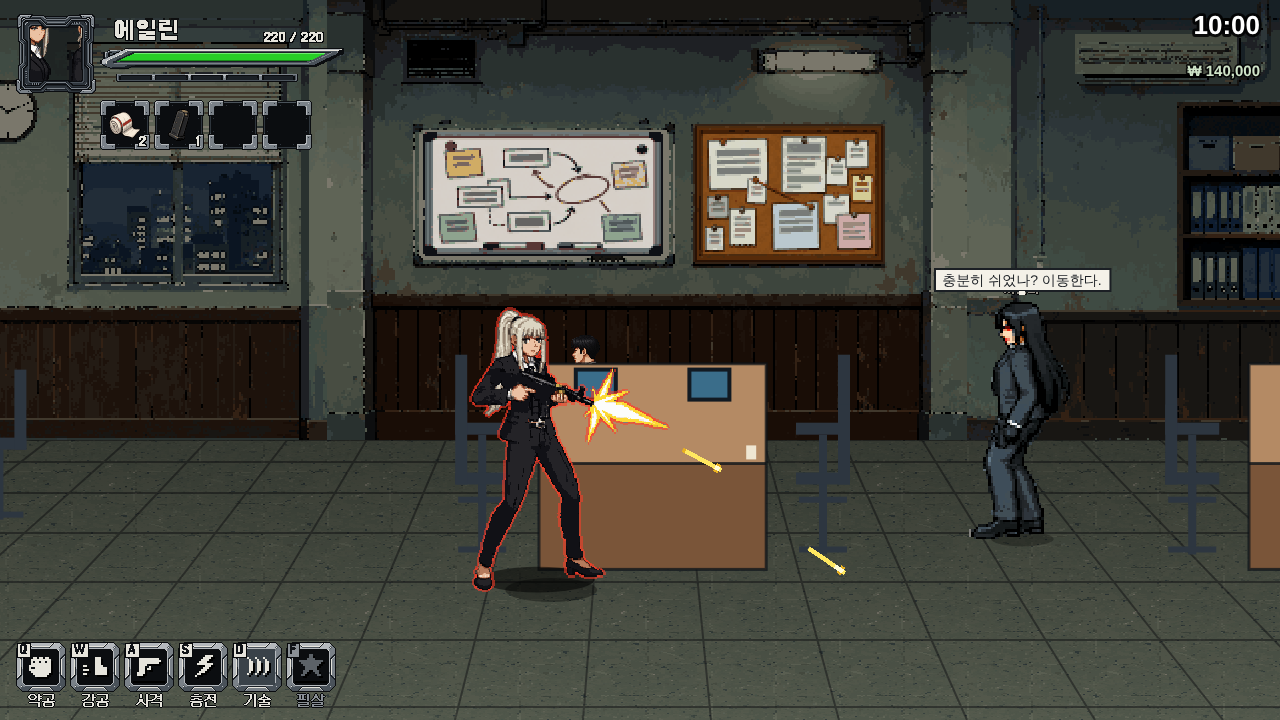
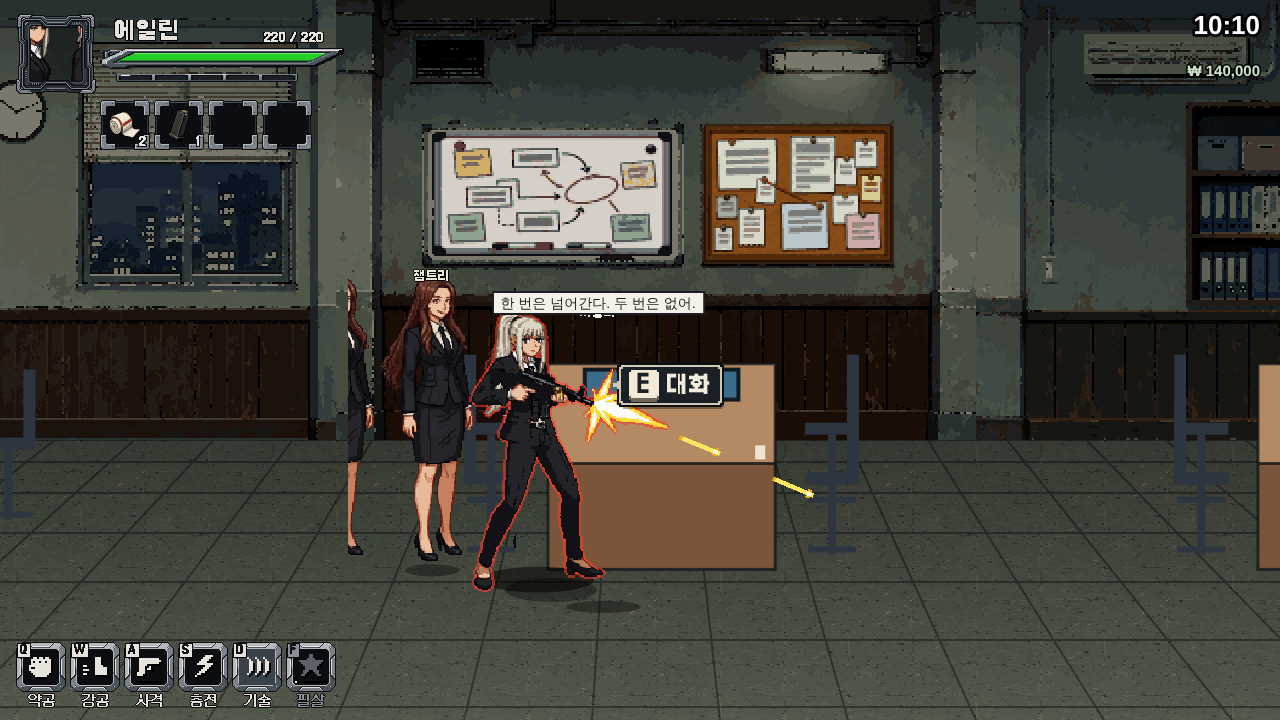
본 게임: 인물 팩 그림을 옛 방문 요원·Test man 그림보다 먼저(사용자 10-29: 옛 에일린·쟈알디 그림이 보임). 몹도 인물 팩(look) → 실루엣
Claude-Session: https://claude.ai/code/session_01Jodrzg78Kc7j1f2mJbzfKz

diff --git a/src/game/action/engine/hub.ts b/src/game/action/engine/hub.ts
@@ -11,8 +11,8 @@ import { SCREEN_H, SCREEN_W } from './contract';
 import { HQ_PLACE, drawFloor, drawHqWall, drawPropArt, drawHqTextureWall } from '../art/bg';
 import { drawHqDoorRound2 } from '../art/hqDoorRound2';
 import { drawCallLit, drawHqField, drawHqFieldLight, drawHqFieldObject, drawHqSigns, hasHqField } from '../art/hqField';
-import { drawVisitAgent, visitAgentTop, hasVisitAgent } from '../art/visitAgents';
-import { charTop, drawCharClip, charArt } from '../art/charPacks';
+import { drawVisitAgent, visitAgentTop } from '../art/visitAgents';
+import { charTop, drawCharClip, charArt, hasCharPacks } from '../art/charPacks';
 import { drawTestMan, hasTestPeople, testManTop, testPlayerTop } from '../art/testPeople';
 import { persp, view as fieldView } from './view';
 import { blockByProps, clearSpot, type BlockProp } from './propBlock';
@@ -145,7 +145,8 @@ export function makeHub(host: HubHost, whereIs: (place: string) => { scene: stri
     arriveDoor = null;
     near = null;
     // 필드 시험: 사무실에 서 있는 남자 (임시)
-    const man = sc.id === 'office' && hasTestPeople() ? { x: 900, y: 560 } : null;
+    // 옛 시험 그림(Test man)은 인물 팩이 없을 때만 (사용자 10-29: 옛 에일린·쟈알디 그림이 왜 보이냐)
+    const man = sc.id === 'office' && hasTestPeople() && !hasCharPacks() ? { x: 900, y: 560 } : null;
     solids = [...(man ? [{ x: man.x, y: man.y, w: 70, back: 20, front: 20 }] : []), ...sc.boxes.filter((b) => b.solid).map((b) => ({ x: b.x, y: b.y, w: b.w, back: b.d + 6, front: 8, h: sc.painted ? b.h : undefined })), ...people.map((p) => ({ x: p.x, y: p.y, w: 80, back: 24, front: 24 }))];
     const len = Math.max(SCREEN_W, sc.length);
     const sx = Math.max(60, Math.min(len - 60, x));
@@ -165,7 +166,7 @@ export function makeHub(host: HubHost, whereIs: (place: string) => { scene: stri
       depthLayers: sc.boxes.map((b) => ({ y: b.y, occludedSilhouette: !sc.painted, x0: b.x - b.w / 2, x1: b.x + b.w / 2, draw: (c: CanvasRenderingContext2D) => {
         if (sc.painted && hasHqField(sc.painted)) { drawHqFieldObject(c, sc.painted, b.kind); return; }
         drawBox(c, b, sc.look);
-      } })).concat(people.map((p) => ({ y: p.y, x0: p.x - 60, x1: p.x + 60, occludedSilhouette: false, draw: (c: CanvasRenderingContext2D) => { drawVisitAgent(c, p.name, p.x, p.y, p.face, performance.now()) || drawCharClip(c, p.name, p.x, p.y, p.face, performance.now()); } })))
+      } })).concat(people.map((p) => ({ y: p.y, x0: p.x - 60, x1: p.x + 60, occludedSilhouette: false, draw: (c: CanvasRenderingContext2D) => { drawCharClip(c, p.name, p.x, p.y, p.face, performance.now()) || drawVisitAgent(c, p.name, p.x, p.y, p.face, performance.now()); } })))
         // 움직이는 행위자: 자리 수만큼 층을 두고 매 프레임 지금 목록의 i번째를 읽는다 (깊이 정렬은 y 게터로)
         .concat(host.life ? Array.from({ length: LIFE_SLOTS }, (_, i) => ({
           get y() { return live[i]?.y ?? -1e9; },
@@ -232,7 +233,7 @@ export function makeHub(host: HubHost, whereIs: (place: string) => { scene: stri
           c.scale(1 / z, 1 / z);
           for (const a of live) {
             if (!a.icon && !a.say) continue;
-            const top = (a.kind === 'named' ? namedTop(a.name) : hasTestPeople() ? testManTop() : -230) * persp(a.y);
+            const top = (a.kind === 'named' ? namedTop(a.name) : a.look && charArt(a.look) ? charTop(a.look) : hasTestPeople() && !hasCharPacks() ? testManTop() : -230) * persp(a.y);
             drawHeadBubble(c, a.x * z, (a.y + top) * z - 8, a.say ?? a.icon!, !!a.say);
           }
           c.restore();
@@ -888,12 +889,12 @@ function legacyDoor(c: CanvasRenderingContext2D, d: Door, camX: number) {
 }
 
 /** 이름 인물 머리 꼭대기: 방문 요원 그림이 있으면 그것, 아니면 인물 팩(테스트룸 그림) */
-const namedTop = (name: string) => (hasVisitAgent(name) || !charArt(name) ? visitAgentTop(name) : charTop(name));
-/** 행위자 그리기: 이름 인물은 방문 요원 그림 → 인물 팩(통합 테스트룸 생활 클립, 10-29) → 실루엣, 몹은 host가 주는 그림(없으면 실루엣) */
+const namedTop = (name: string) => (charArt(name) ? charTop(name) : visitAgentTop(name));
+/** 행위자 그리기: 이름 인물은 인물 팩(통합 테스트룸 생활 클립, 10-29) → 옛 방문 요원 그림 → 실루엣, 몹은 host가 주는 그림(없으면 실루엣) */
 function drawLiveActor(c: CanvasRenderingContext2D, a: LiveActor, life: HubLife): void {
   const t = (life.lifeTime?.() ?? performance.now() / 1000) * 1000;
-  if (a.kind === 'named' && drawVisitAgent(c, a.name, a.x, a.y, a.face, t, a.clip, (a.since ?? 0) * 1000)) return;
   if (a.kind === 'named' && drawCharClip(c, a.name, a.x, a.y, a.face, t, a.clip, (a.since ?? 0) * 1000)) return;
+  if (a.kind === 'named' && drawVisitAgent(c, a.name, a.x, a.y, a.face, t, a.clip, (a.since ?? 0) * 1000)) return;
   if (a.kind === 'mob' && life.drawMob) return life.drawMob(c, a);
   silhouette(c, a);
 }

diff --git a/src/game/action/engine/modules.ts b/src/game/action/engine/modules.ts
@@ -11,7 +11,7 @@ import { drawGuardBar } from '../ui/pixelHud';
 import { EileenPlayer } from '../eileen/player';
 import { Room3Player, room3Hooks } from '../room3/player';
 import { AiRoom3 } from '../room3/ai';
-import { charArt, charFace, charTop, drawCharClip, hasCharClip, loadChar } from '../art/charPacks';
+import { charArt, charFace, charTop, drawCharClip, hasCharClip, hasCharPacks, loadChar } from '../art/charPacks';
 import { setPixelScale } from './contract';
 import { mountTalk } from '../../talk';
 import { createGameAudio } from '../audio';
@@ -260,7 +260,8 @@ function hqAdapter(bridge: Partial<GameBridge> | undefined, ui: { chooseFloor: H
     hit: (sceneId, boxes, dir) => world()?.hitBoxes(sceneId, boxes, dir).length ?? 0,
     actors: (sceneId) => (world()?.inScene(sceneId) ?? []).map((a) => ({ id: a.def.id, name: a.def.name, kind: a.def.kind, x: a.x, y: a.y, face: a.face, look: a.def.look, moving: a.act === 'walk', clip: a.clip, since: a.clipAt, icon: a.icon, say: a.say })),
     observer: (sceneId) => (observing && sim ? observerLines(sim, clockView(), sceneId, seed) : null),
-    drawMob: (c, a) => { if (!drawTestMan(c, a.x, a.y, a.face)) silhouette(c, a); },
+    // 몹: 인물 팩(look = NPC 원형 이름, 받아 둔 것) → 인물 팩이 아예 없을 때만 옛 Test man → 실루엣
+    drawMob: (c, a) => { if (a.look && drawCharClip(c, a.look, a.x, a.y, a.face, performance.now(), a.clip, (a.since ?? 0) * 1000)) return; if (hasCharPacks() || !drawTestMan(c, a.x, a.y, a.face)) silhouette(c, a); },
   };
   const visitors = (sceneId: string) => {
     const here = present.filter((p) => ROOM_SCENE[p.room] === sceneId && (hasVisitAgent(p.name) || !!charArt(p.name)));
